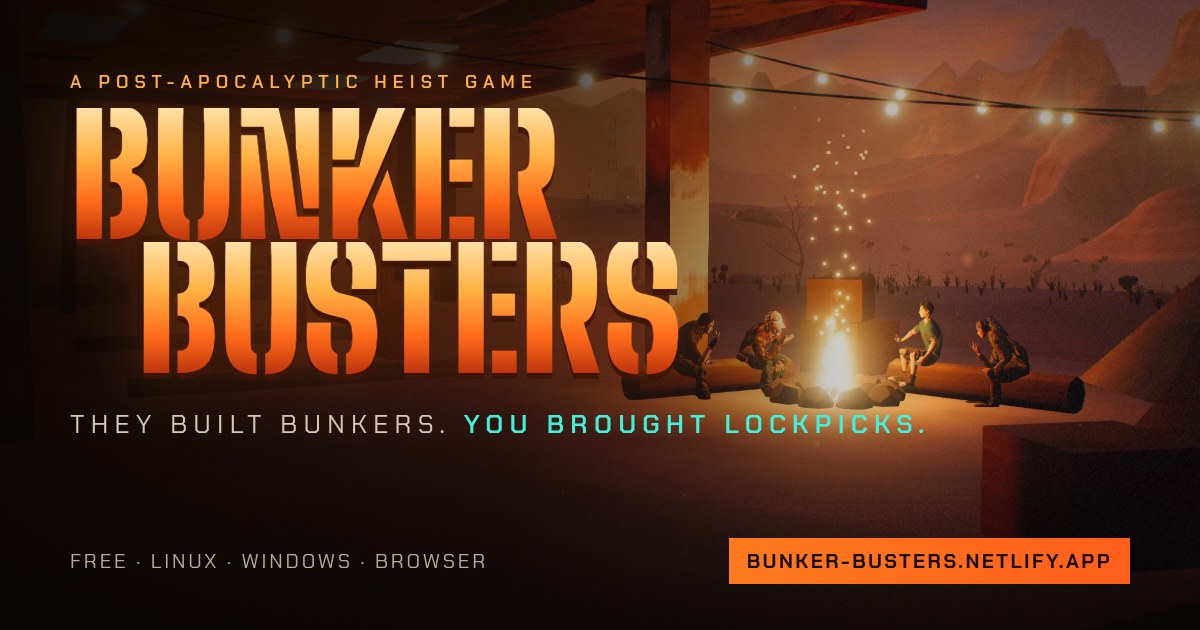
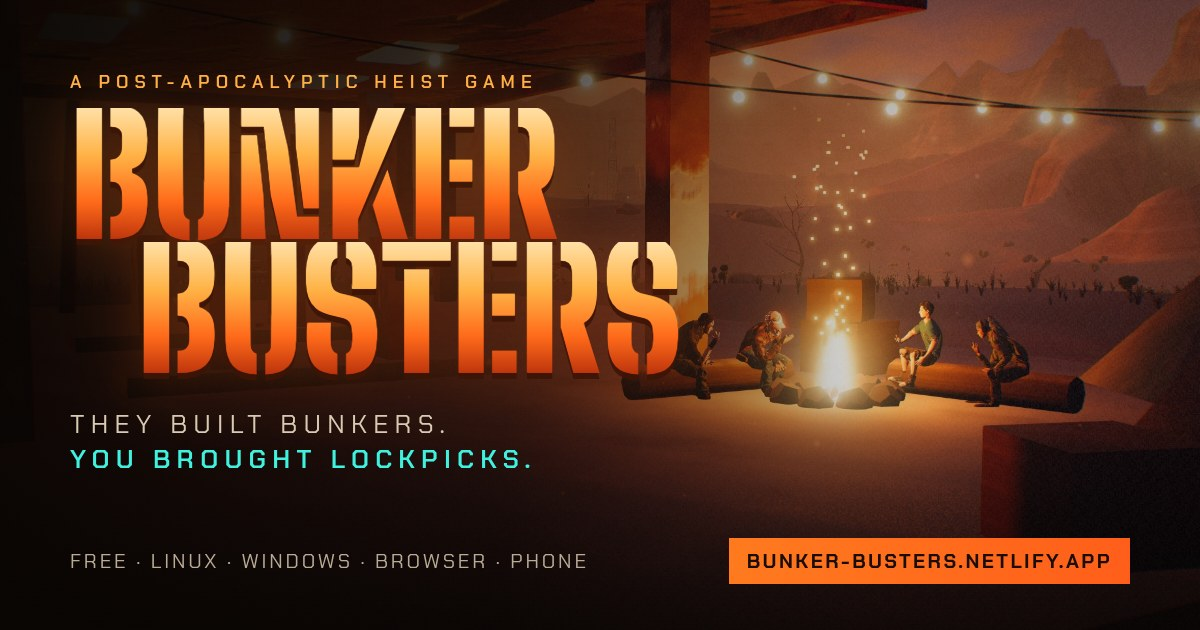
Share card: the tagline on two lines, clear of the people at the fire
The one-line tagline ran under the camp four's feet and the logs (NOTES 2026-10-09 "first
impressions" left it open). Two short lines keep it left of the group. The footer line adds
"Phone". debug/og.html also renders just the logo on a transparent page (?logo=stacked|line)
for the press kit's logo PNGs.

Changed region(s): [[0.0617, 0.6333, 0.7708, 0.754], [0.4317, 0.8746, 0.4933, 0.9048]]

diff --git a/debug/og.html b/debug/og.html
@@ -1,6 +1,16 @@
 <!doctype html>
 <html><head><meta charset="utf-8"><title>OG card</title>
-<script type="module">import '/src/fonts.ts'; await document.fonts.ready; await Promise.all(['900 160px "Big Shoulders Stencil Display"','600 30px "Chakra Petch"'].map(f=>document.fonts.load(f))); window.__ready = true;</script>
+<!-- 1200×630 share card (scripts/dev/og-card.mjs → public/og.jpg). ?logo=stacked|line: only the logo on a
+     transparent page, for the press kit's logo PNGs (scripts/dev/site-media.mjs logos). -->
+<script type="module">
+  const logo = new URLSearchParams(location.search).get('logo');
+  if (logo) document.documentElement.classList.add('logo-only', `logo-${logo}`);
+  import('/src/fonts.ts').then(async () => {
+    await document.fonts.ready;
+    await Promise.all(['900 160px "Big Shoulders Stencil Display"', '600 30px "Chakra Petch"'].map((f) => document.fonts.load(f)));
+    window.__ready = true;
+  });
+</script>
 <style>
   html,body{margin:0;width:1200px;height:630px;overflow:hidden;background:#0b0806}
   .card{position:relative;width:1200px;height:630px;overflow:hidden;font-family:'Chakra Petch',sans-serif;color:#f3e9d8}
@@ -11,14 +21,24 @@
   .logo{margin:14px 0 0;line-height:.8}
   .logo span{display:block;font-family:'Big Shoulders Stencil Display',sans-serif;font-weight:900;font-size:168px;background:linear-gradient(180deg,#ffe0a6 0%,#ffb347 35%,#ff6a1a 70%,#b8300c 100%);-webkit-background-clip:text;background-clip:text;color:transparent;filter:drop-shadow(0 6px 0 rgba(60,20,5,.9)) drop-shadow(0 0 30px rgba(255,106,26,.35))}
   .logo span+span{margin-left:.4em}
-  .tag{margin-top:30px;font-size:26px;letter-spacing:.24em;text-transform:uppercase;color:#d8cbb4}
-  .tag b{color:#3ff2e0;font-weight:600}
+  /* two short lines, so the tagline stays left of the people at the fire */
+  .tag{margin-top:30px;font-size:26px;line-height:1.35;letter-spacing:.24em;text-transform:uppercase;color:#d8cbb4}
+  .tag b{display:block;color:#3ff2e0;font-weight:600}
   .foot{position:absolute;left:70px;bottom:46px;right:70px;display:flex;justify-content:space-between;align-items:center;font-size:20px;letter-spacing:.14em;text-transform:uppercase;color:#b9ab95}
   .pill{color:#1a0d05;background:linear-gradient(90deg,#ff7a1f,#ff5e1a);padding:10px 18px;font-weight:700;letter-spacing:.12em}
+
+  /* logo only (press kit PNGs): transparent, padded so the glow isn't cut off */
+  html.logo-only,html.logo-only body{width:auto;height:auto;overflow:visible;background:transparent}
+  html.logo-only .card{width:auto;height:auto;overflow:visible}
+  html.logo-only .bg,html.logo-only .shade,html.logo-only .kicker,html.logo-only .tag,html.logo-only .foot{display:none}
+  html.logo-only .inner{position:static;display:inline-block}
+  html.logo-only .logo{display:inline-block;margin:0;padding:40px 60px 64px}
+  html.logo-line .logo span{display:inline-block}
+  html.logo-line .logo span+span{margin-left:.22em}
 </style></head>
 <body><div class="card"><div class="bg"></div><div class="shade"></div>
 <div class="inner"><div class="kicker">A post-apocalyptic heist game</div>
 <div class="logo"><span>BUNKER</span><span>BUSTERS</span></div>
 <div class="tag">They built bunkers. <b>You brought lockpicks.</b></div></div>
-<div class="foot"><span>Free · Linux · Windows · Browser</span><span class="pill">bunker-busters.netlify.app</span></div>
+<div class="foot"><span>Free · Linux · Windows · Browser · Phone</span><span class="pill">bunker-busters.netlify.app</span></div>
 </div></body></html>
